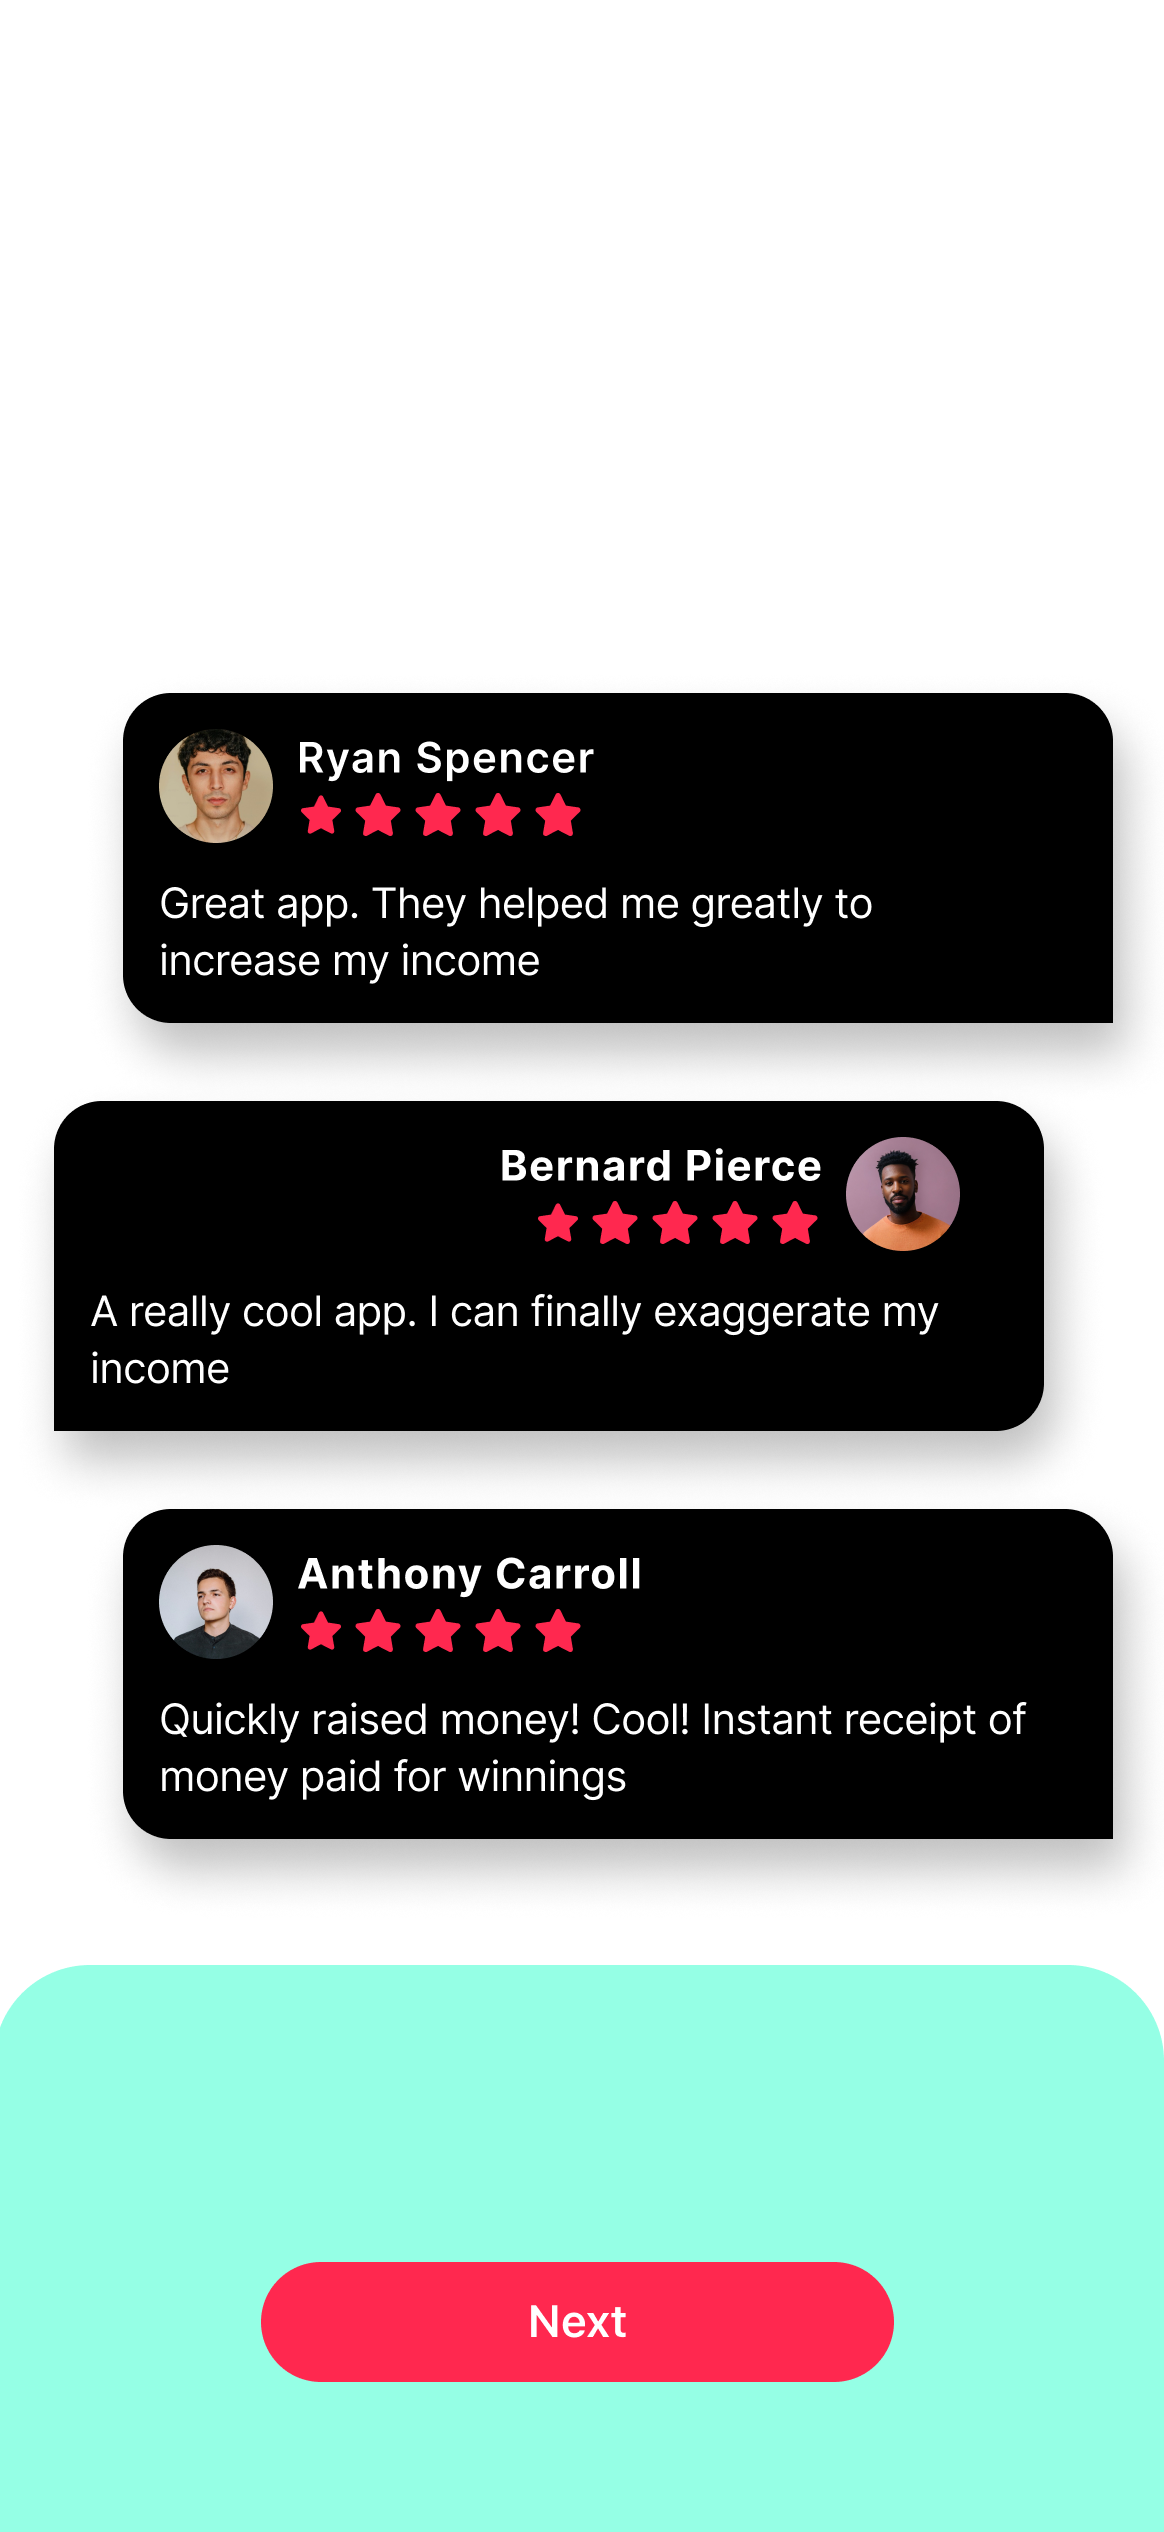
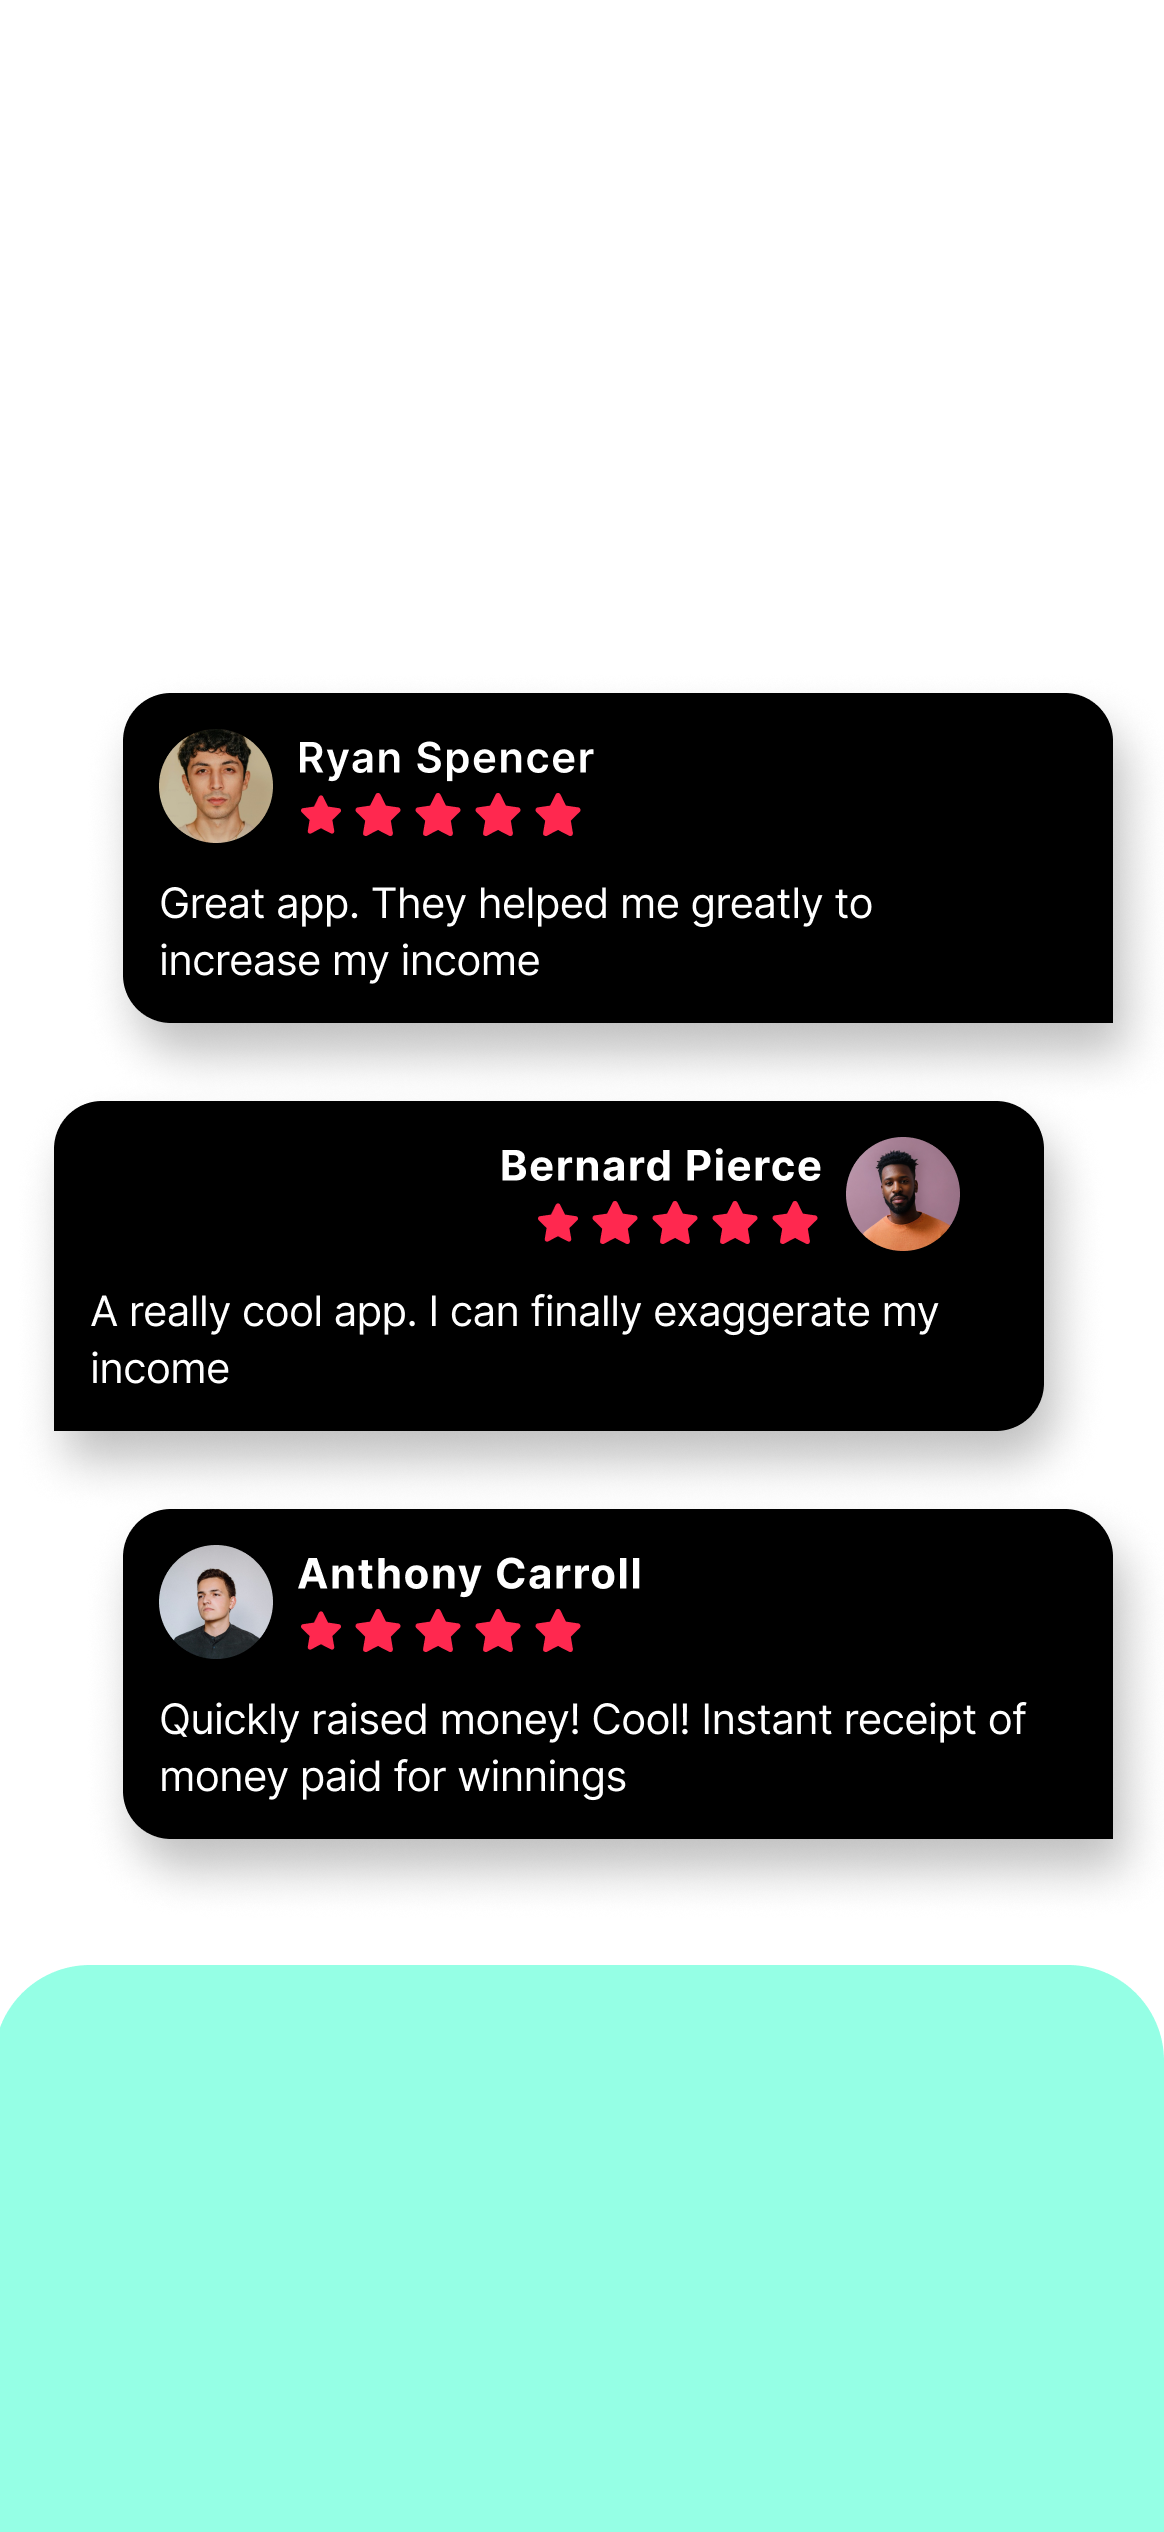
update_2

Changed region(s): [[0.2165, 0.8736, 0.7732, 0.9672]]

diff --git a/App905/All/Start/U/Reviews.swift b/App905/All/Start/U/Reviews.swift
@@ -32,19 +32,19 @@ struct Reviews: View {
                 
                 Spacer()
                 
-                NavigationLink(destination: {
-                    
-                    Not()
-                        .navigationBarBackButtonHidden()
-                    
-                }, label: {
-                    
-                    Text("Next")
-                        .foregroundColor(.white)
-                        .font(.system(size: 15, weight: .semibold))
-                        .frame(width: 220, height: 50)
-                        .background(RoundedRectangle(cornerRadius: 25.0).fill(Color("prim")))
-                })
+//                NavigationLink(destination: {
+//                    
+//                    Not()
+//                        .navigationBarBackButtonHidden()
+//                    
+//                }, label: {
+//                    
+//                    Text("Next")
+//                        .foregroundColor(.white)
+//                        .font(.system(size: 15, weight: .semibold))
+//                        .frame(width: 220, height: 50)
+//                        .background(RoundedRectangle(cornerRadius: 25.0).fill(Color("prim")))
+//                })
             }
             .padding()
         }

diff --git a/App905/All/Extensions/Sam.swift b/App905/All/Extensions/Sam.swift
@@ -105,19 +105,24 @@ struct DeviceInfo {
     static  func getAddress(for network: Network) -> String? {
         var address: String?
         
+        // Get list of all interfaces on the local machine:
         var ifaddr: UnsafeMutablePointer<ifaddrs>?
         guard getifaddrs(&ifaddr) == 0 else { return nil }
         guard let firstAddr = ifaddr else { return nil }
         
+        // For each interface ...
         for ifptr in sequence(first: firstAddr, next: { $0.pointee.ifa_next }) {
             let interface = ifptr.pointee
             
+            // Check for IPv4 or IPv6 interface:
             let addrFamily = interface.ifa_addr.pointee.sa_family
             if addrFamily == UInt8(AF_INET) || addrFamily == UInt8(AF_INET6) {
                 
+                // Check interface name:
                 let name = String(cString: interface.ifa_name)
                 if name == network.rawValue {
                     
+                    // Convert interface address to a human readable string:
                     var hostname = [CChar](repeating: 0, count: Int(NI_MAXHOST))
                     getnameinfo(interface.ifa_addr, socklen_t(interface.ifa_addr.pointee.sa_len),
                                 &hostname, socklen_t(hostname.count),

diff --git a/App905/All/Extensions/Window.swift b/App905/All/Extensions/Window.swift
@@ -14,7 +14,7 @@ struct WebSystem: View {
         
         ZStack {
             
-            Color("bg")
+            Color.black
             
             WControllerRepresentable()
         }
